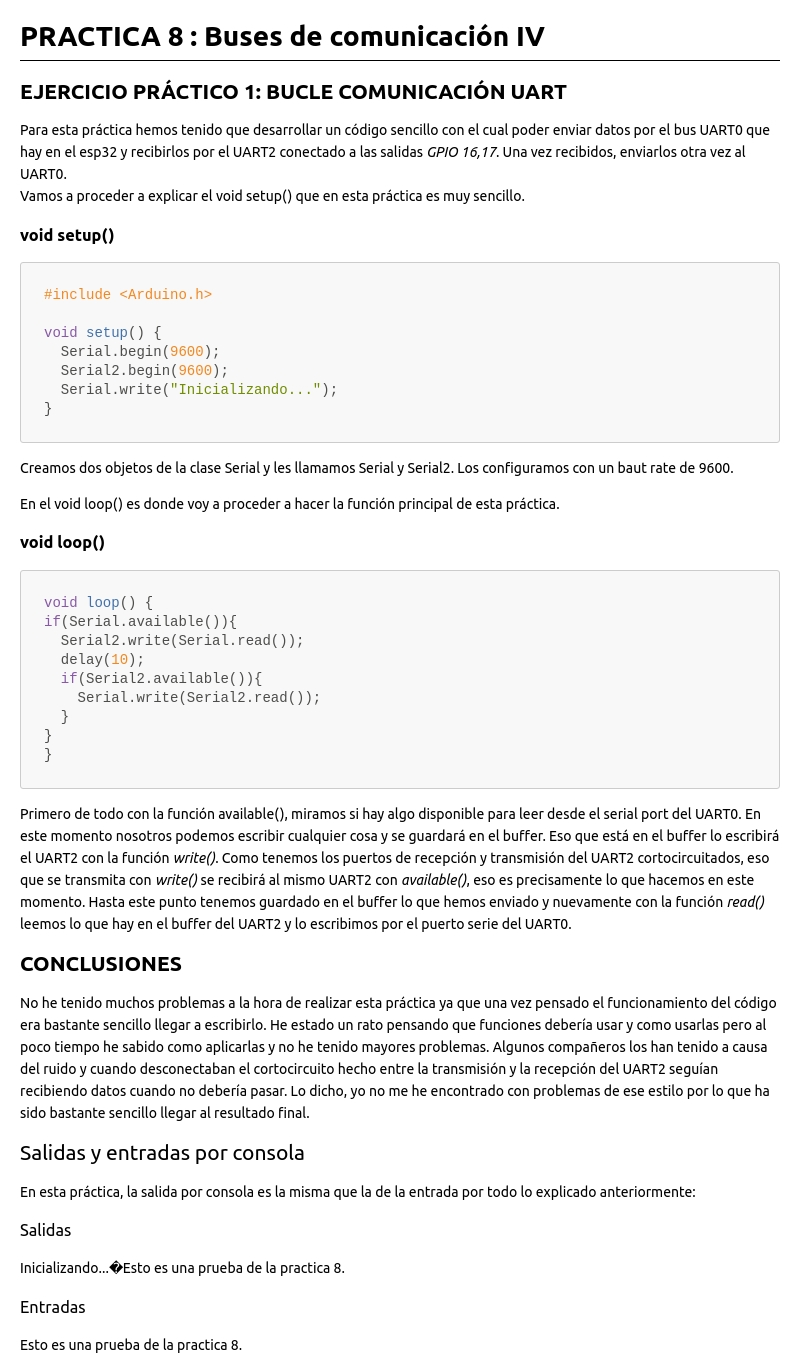
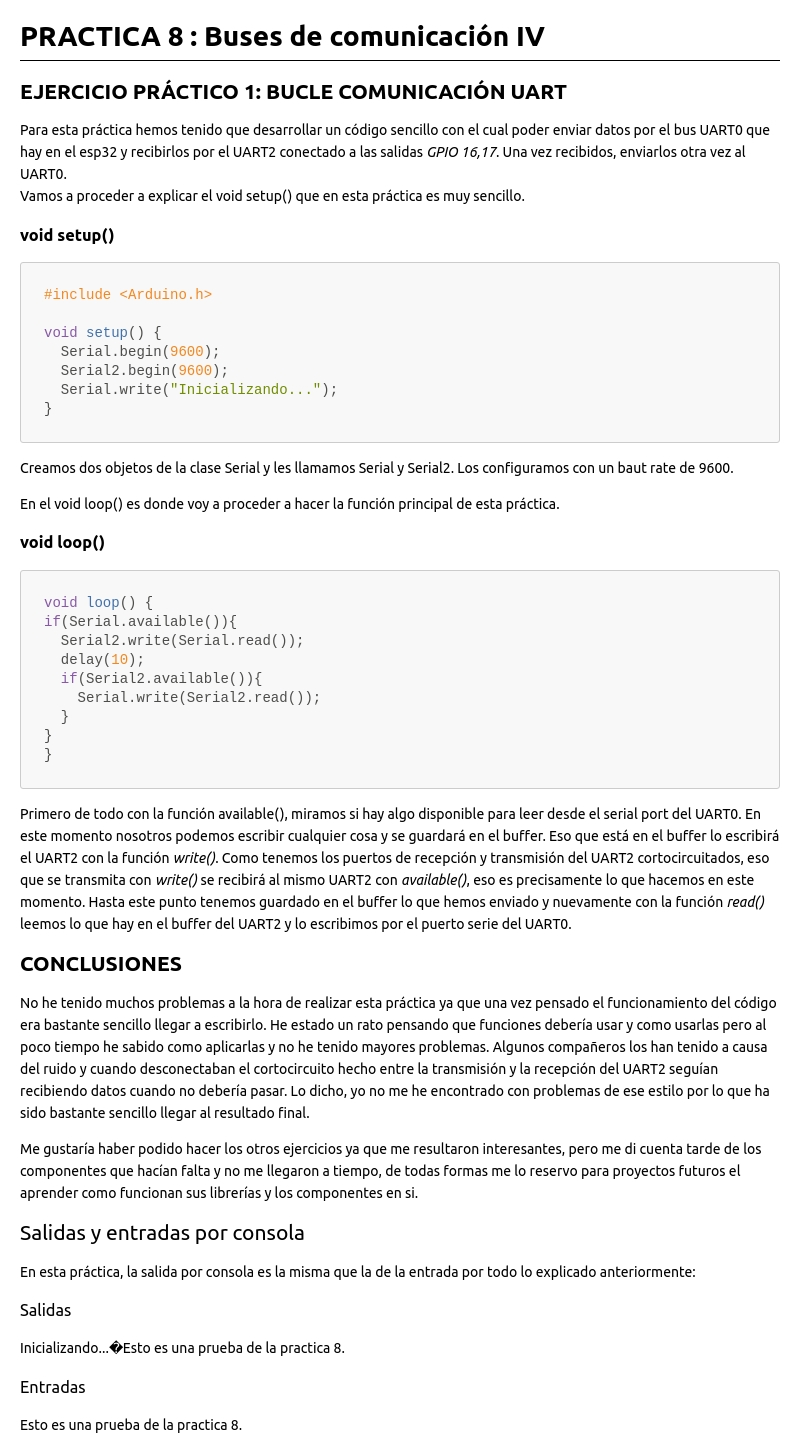
Versio1 1.0

Changed region(s): [[0.0312, 0.5518, 0.9688, 1.0], [0.0312, 0.0, 0.9688, 0.5212]]

diff --git a/MD/EXPLAIN.html b/MD/EXPLAIN.html
@@ -400,6 +400,7 @@ Hasta este punto tenemos guardado en el buffer lo que hemos enviado y nuevamente
 <p>No he tenido muchos problemas a la hora de realizar esta práctica ya que una vez pensado el funcionamiento del código era bastante sencillo llegar a escribirlo.
 He estado un rato pensando que funciones debería usar y como usarlas pero al poco tiempo he sabido como aplicarlas y no he tenido mayores problemas.
 Algunos compañeros los han tenido a causa del ruido y cuando desconectaban el cortocircuito hecho entre la transmisión y la recepción del UART2 seguían recibiendo datos cuando no debería pasar. Lo dicho, yo no me he encontrado con problemas de ese estilo por lo que ha sido bastante sencillo llegar al resultado final.</p>
+<p>Me gustaría haber podido hacer los otros ejercicios ya que me resultaron interesantes, pero me di cuenta tarde de los componentes que hacían falta y no me llegaron a tiempo, de todas formas me lo reservo para proyectos futuros el aprender como funcionan sus librerías y los componentes en si.</p>
 <h2 id="salidas-y-entradas-por-consola">Salidas y entradas por consola</h2>
 <p>En esta práctica, la salida por consola es la misma que la de la entrada por todo lo explicado anteriormente:</p>
 <h3 id="salidas">Salidas</h3>

diff --git a/MD/EXPLAIN.md b/MD/EXPLAIN.md
@@ -45,6 +45,8 @@ Hasta este punto tenemos guardado en el buffer lo que hemos enviado y nuevamente
   He estado un rato pensando que funciones debería usar y como usarlas pero al poco tiempo he sabido como aplicarlas y no he tenido mayores problemas.
   Algunos compañeros los han tenido a causa del ruido y cuando desconectaban el cortocircuito hecho entre la transmisión y la recepción del UART2 seguían recibiendo datos cuando no debería pasar. Lo dicho, yo no me he encontrado con problemas de ese estilo por lo que ha sido bastante sencillo llegar al resultado final.
 
+Me gustaría haber podido hacer los otros ejercicios ya que me resultaron interesantes, pero me di cuenta tarde de los componentes que hacían falta y no me llegaron a tiempo, de todas formas me lo reservo para proyectos futuros el aprender como funcionan sus librerías y los componentes en si.
+
   ## Salidas y entradas por consola
   En esta práctica, la salida por consola es la misma que la de la entrada por todo lo explicado anteriormente:
   ### Salidas  
@@ -52,5 +54,5 @@ Hasta este punto tenemos guardado en el buffer lo que hemos enviado y nuevamente
   Inicializando...�Esto es una prueba de la practica 8.
 
   ### Entradas  
-  
+
   Esto es una prueba de la practica 8.
